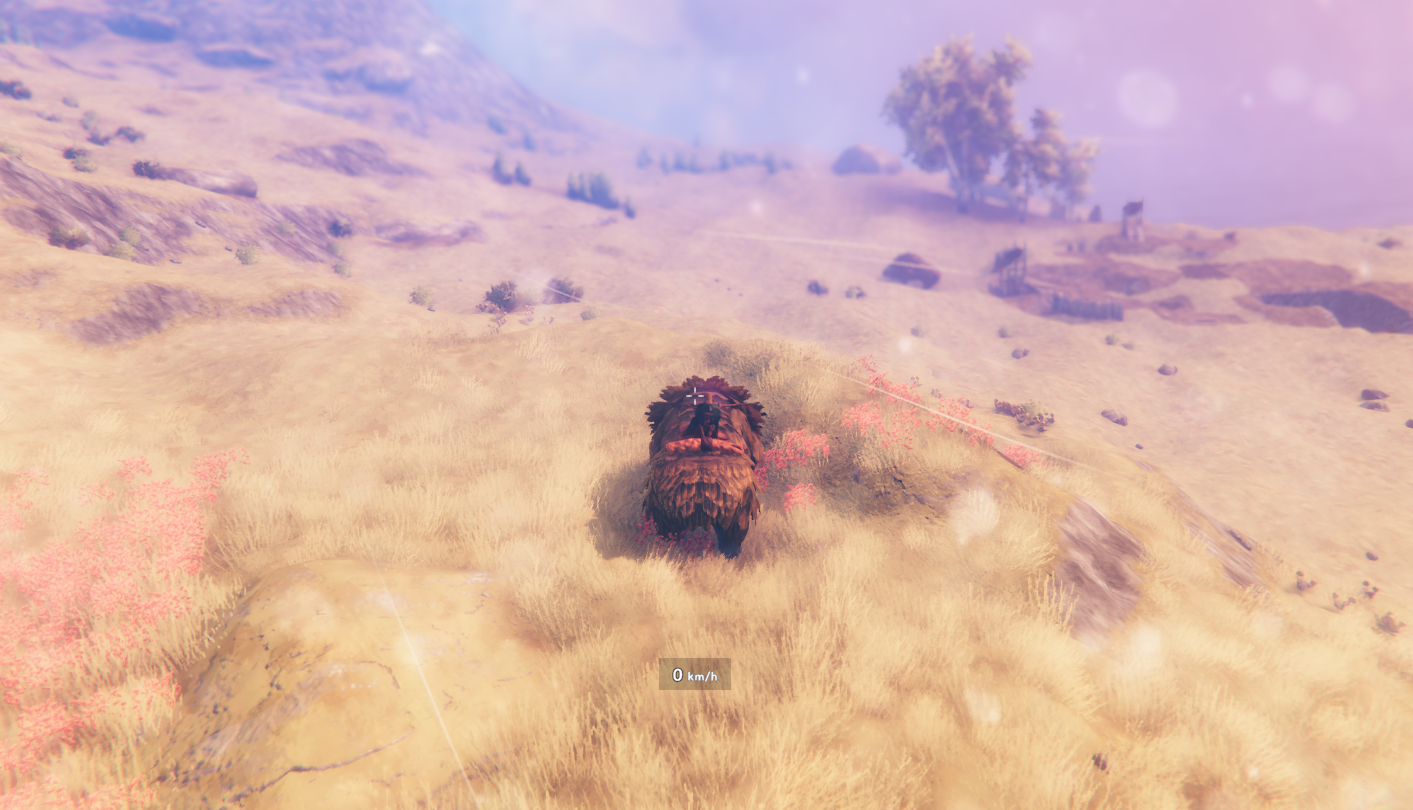
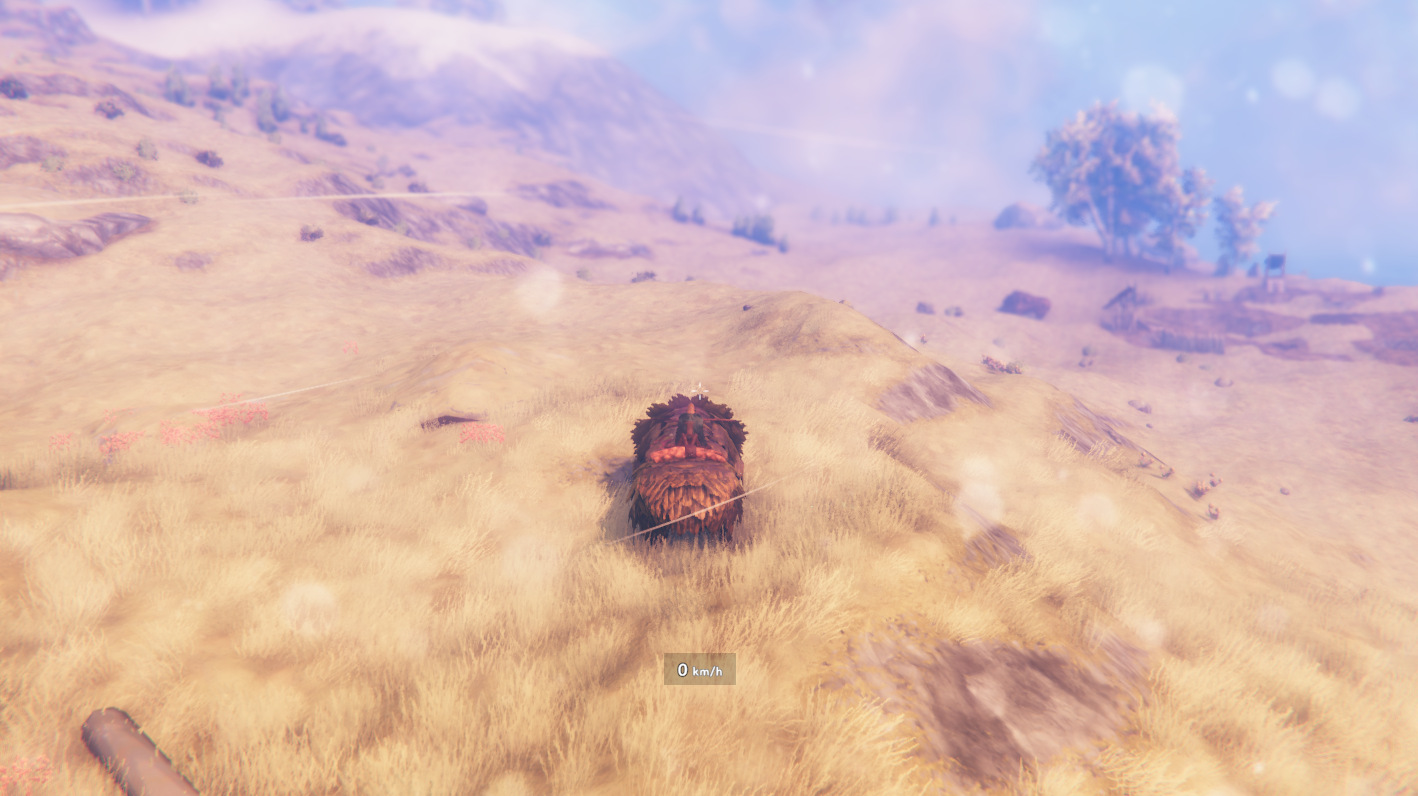
Remove the mount centre view (#2)
* Remove the mount centre view

It was barely different from the player view. The centre view and the C key are now for steering a
ship only; while riding, C toggles walking as in vanilla. Riding keeps its own zoom limits. The Mount
Height setting and its translation are removed, and the description, README and changelog updated.

* Update riding zoomed out image for improved visuals

---------

diff --git a/Camera/CameraController.cs b/Camera/CameraController.cs
@@ -16,8 +16,8 @@ namespace BetterCamera.Camera;
 /// remembers its own zoom level, which comes back when returning to that mode.</item>
 /// <item>Zooming in past the minimum enters first person at the eyes (vanilla's own first person offset), with the
 /// body hidden; zooming out of it returns to the minimum.</item>
-/// <item>While sailing or riding, the cycle key switches what the camera orbits between the player (vanilla) and
-/// the vehicle's centre. Switching blends over a short time.</item>
+/// <item>While steering a ship, the cycle key switches what the camera orbits between the player (vanilla) and the
+/// ship's centre. Switching blends over a short time.</item>
 /// </list>
 /// </summary>
 internal static class CameraController
@@ -34,7 +34,6 @@ internal static class CameraController
     private static ConfigEntry<bool> _firstPerson;
     private static ConfigEntry<KeyCode> _cycleKey;
     private static ConfigEntry<float> _shipLift;
-    private static ConfigEntry<float> _mountLift;
     private static ConfigEntry<float> _transitionTime;
 
     private static readonly Dictionary<TravelMode, float> Distances = [];
@@ -72,16 +71,14 @@ internal static class CameraController
             "Zooming out again returns to third person.");
 
         _cycleKey = config.Bind("Keybinds", "Cycle View", KeyCode.C,
-            "While steering a ship or riding, switches the camera between following you and following the ship's " +
-            "or mount's centre. While doing either, this key no longer toggles walking. " +
+            "While steering a ship, switches the camera between following you and following the ship's centre. " +
+            "While steering, this key no longer toggles walking. " +
             "Rebindable from the in-game controls menu.");
         InputManager.Instance.AddButton(BetterCameraPlugin.PluginGUID, new ButtonConfig { Name = ButtonName, Config = _cycleKey });
 
         const string views = "Views";
         _shipLift = config.Bind(views, "Ship Height", 4.5f,
             new ConfigDescription("Metres above the waterline of the ship's centre view.", new AcceptableValueRange<float>(0f, 20f)));
-        _mountLift = config.Bind(views, "Mount Height", 0.5f,
-            new ConfigDescription("Metres above the top of the mount of its centre view.", new AcceptableValueRange<float>(0f, 10f)));
         _transitionTime = config.Bind(views, "Transition Time", 0.4f,
             new ConfigDescription("Seconds the camera takes to move to a new view.", new AcceptableValueRange<float>(0f, 2f)));
     }
@@ -121,11 +118,11 @@ internal static class CameraController
     }
 
     /// <summary>
-    /// True while the local player steers a ship or rides, when the cycle key is theirs and C doesn't toggle walking.
+    /// True while the local player steers a ship, when the cycle key is theirs and C doesn't toggle walking.
     /// </summary>
-    internal static bool Travelling(Player player)
+    internal static bool Steering(Player player)
     {
-        return player != null && ModeOf(player) != TravelMode.Walking;
+        return player != null && ModeOf(player) == TravelMode.Sailing;
     }
 
     /// <summary>
@@ -159,7 +156,7 @@ internal static class CameraController
     /// </summary>
     public static void UpdateInput(Player player)
     {
-        if (!Travelling(player) || Blocked() || !ZInput.GetButtonDown(ButtonQueryName))
+        if (!Steering(player) || Blocked() || !ZInput.GetButtonDown(ButtonQueryName))
         {
             return;
         }
@@ -171,13 +168,12 @@ internal static class CameraController
         _anchorChangedAt = Time.time;
         Anchors[mode] = next;
         player.Message(MessageHud.MessageType.TopLeft,
-            Localization.instance.Localize("$bettercamera_view", Localization.instance.Localize(AnchorToken(mode, next))));
+            Localization.instance.Localize("$bettercamera_view", Localization.instance.Localize(AnchorToken(next))));
     }
 
-    private static string AnchorToken(TravelMode mode, ViewAnchor anchor)
+    private static string AnchorToken(ViewAnchor anchor)
     {
-        string centre = mode == TravelMode.Sailing ? "$bettercamera_view_ship_centre" : "$bettercamera_view_mount_centre";
-        return anchor == ViewAnchor.Centre ? centre : "$bettercamera_view_player";
+        return anchor == ViewAnchor.Centre ? "$bettercamera_view_ship_centre" : "$bettercamera_view_player";
     }
 
     private static bool Blocked()
@@ -217,7 +213,7 @@ internal static class CameraController
             _anchorChangedAt = -100f;
         }
 
-        // First person only around the player: inside a ship or a mount there's nothing to see.
+        // First person only around the player: inside a ship there's nothing to see.
         ViewAnchor anchor = Anchor;
         bool firstPersonAllowed = _firstPerson.Value && anchor == ViewAnchor.Player;
         if (modeChanged || anchor != _lastAnchor)
@@ -324,13 +320,7 @@ internal static class CameraController
         }
 
         Ship ship = player.GetControlledShip();
-        if (ship != null && ship.m_floatCollider != null)
-        {
-            return ShipPivot(ship);
-        }
-
-        Character mount = (player.m_doodadController as Sadle)?.GetCharacter();
-        return mount != null && mount.GetCollider() != null ? MountPivot(mount) : playerPivot;
+        return ship != null && ship.m_floatCollider != null ? ShipPivot(ship) : playerPivot;
     }
 
     /// <summary>
@@ -343,14 +333,4 @@ internal static class CameraController
         return hull.transform.TransformPoint(hull.center) + (Vector3.up * _shipLift.Value);
     }
 
-    /// <summary>
-    /// Above the mount's own position, at the height of the top of its collider. The collider isn't always
-    /// centred on the body (the lox's sits off to one side), so it only gives the height.
-    /// </summary>
-    private static Vector3 MountPivot(Character mount)
-    {
-        Vector3 position = mount.transform.position;
-        float top = mount.GetCollider().bounds.max.y;
-        return new Vector3(position.x, top + _mountLift.Value, position.z);
-    }
 }

diff --git a/Patches/ZInputUpdatePatch.cs b/Patches/ZInputUpdatePatch.cs
@@ -7,9 +7,9 @@ using HarmonyLib;
 namespace BetterCamera.Patches;
 
 /// <summary>
-/// While steering a ship or riding, the walk toggle does nothing useful (mounts have their own pace), and its key
-/// (C by default) cycles the camera view instead. Straight after the game reads the keys, this cancels the walk
-/// toggle's press for the frame, so the player doesn't end up walking after dismounting.
+/// While steering a ship, the walk toggle does nothing useful, and its key (C by default) switches the camera view
+/// instead. Straight after the game reads the keys, this cancels the walk toggle's press for the frame, so the
+/// player doesn't end up walking after leaving the helm.
 /// </summary>
 [HarmonyPatch(typeof(ZInput), nameof(ZInput.Update))]
 internal static class ZInput_Update_Patch
@@ -25,7 +25,7 @@ internal static class ZInput_Update_Patch
         // ZInput.Update is static, so the buttons come from the instance.
         ZInput input = ZInput.instance;
         if (input != null
-            && CameraController.Travelling(Player.m_localPlayer)
+            && CameraController.Steering(Player.m_localPlayer)
             && Buttons(input).TryGetValue(ToggleWalk, out ZInput.ButtonDef button)
             && button.Pressed)
         {

diff --git a/Patches/GameCameraCollideRay2Patch.cs b/Patches/GameCameraCollideRay2Patch.cs
@@ -8,7 +8,7 @@ namespace BetterCamera.Patches;
 
 /// <summary>
 /// Vanilla also checks for walls between the player's eyes and the camera. With the camera orbiting a ship or
-/// mount instead, that check would pull the camera in for no reason, so only the pivot's own check is kept.
+/// ship's centre instead, that check would pull the camera in for no reason, so only the pivot's own check is kept.
 /// </summary>
 [HarmonyPatch(typeof(GameCamera), "CollideRay2")]
 internal static class GameCamera_CollideRay2_Patch

diff --git a/Camera/CameraModes.cs b/Camera/CameraModes.cs
@@ -6,7 +6,7 @@ namespace BetterCamera.Camera;
 internal enum TravelMode { Walking = 0, Sailing = 1, Riding = 2 }
 
 /// <summary>
-/// What the camera orbits while sailing or riding.
+/// What the camera orbits while steering a ship.
 /// </summary>
 internal enum ViewAnchor
 {
@@ -16,7 +16,7 @@ internal enum ViewAnchor
     Player = 0,
 
     /// <summary>
-    /// The middle of the ship or mount, raised a little.
+    /// The middle of the ship, raised a few metres.
     /// </summary>
     Centre = 1,
 }

diff --git a/Patches/GameCameraGetOffsetedEyePosPatch.cs b/Patches/GameCameraGetOffsetedEyePosPatch.cs
@@ -7,7 +7,7 @@ using UnityEngine;
 namespace BetterCamera.Patches;
 
 /// <summary>
-/// Moves the point the camera orbits to the current view's (the ship's or mount's centre, overview or front).
+/// Moves the point the camera orbits to the ship's centre while that view is on.
 /// </summary>
 [HarmonyPatch(typeof(GameCamera), "GetOffsetedEyePos")]
 internal static class GameCamera_GetOffsetedEyePos_Patch

diff --git a/CHANGELOG.md b/CHANGELOG.md
@@ -6,4 +6,4 @@
 - Zoom out further: up to 16 m while walking, 40 m while steering a ship and 24 m while riding (vanilla 8 m, 16 m on ships). Each has its own limits in the config and remembers its own zoom.
 - Zoom in past the closest distance for a first-person view, with your body hidden so it doesn't block the view. It stays on when you take the helm, mount up or switch views, until you zoom out.
 - In first person, the ship's sail and rudder indicator sits at a fixed spot in front of you instead of beside the helm.
-- While steering a ship or riding, press `C` to switch the camera between following you and following the centre of the ship or mount. While doing either, `C` no longer toggles walking.
+- While steering a ship, press `C` to switch the camera between following you and following the centre of the ship. While steering, `C` no longer toggles walking.

diff --git a/README.md b/README.md
@@ -4,11 +4,11 @@
 
 # BetterCamera
 
-Zoom further out or into first person, with zoom limits for walking, sailing and riding, and switch the camera to follow the centre of your ship or mount.
+Zoom further out or into first person, with zoom limits for walking, sailing and riding, and switch the camera to follow the centre of your ship.
 
 - **Zoom further**: Zoom out up to 16 m while walking, 40 m while steering a ship and 24 m while riding.
 - **First person**: Zoom all the way in to look around through your character's eyes.
-- **Travel views**: While steering a ship or riding, switch the camera by pressing `C` to follow the ship's or mount's centre, so you can look all around it.
+- **Ship view**: While steering a ship, press `C` to switch the camera to follow the ship's centre, so you can look all around it.
 
 ## Camera Views
 
